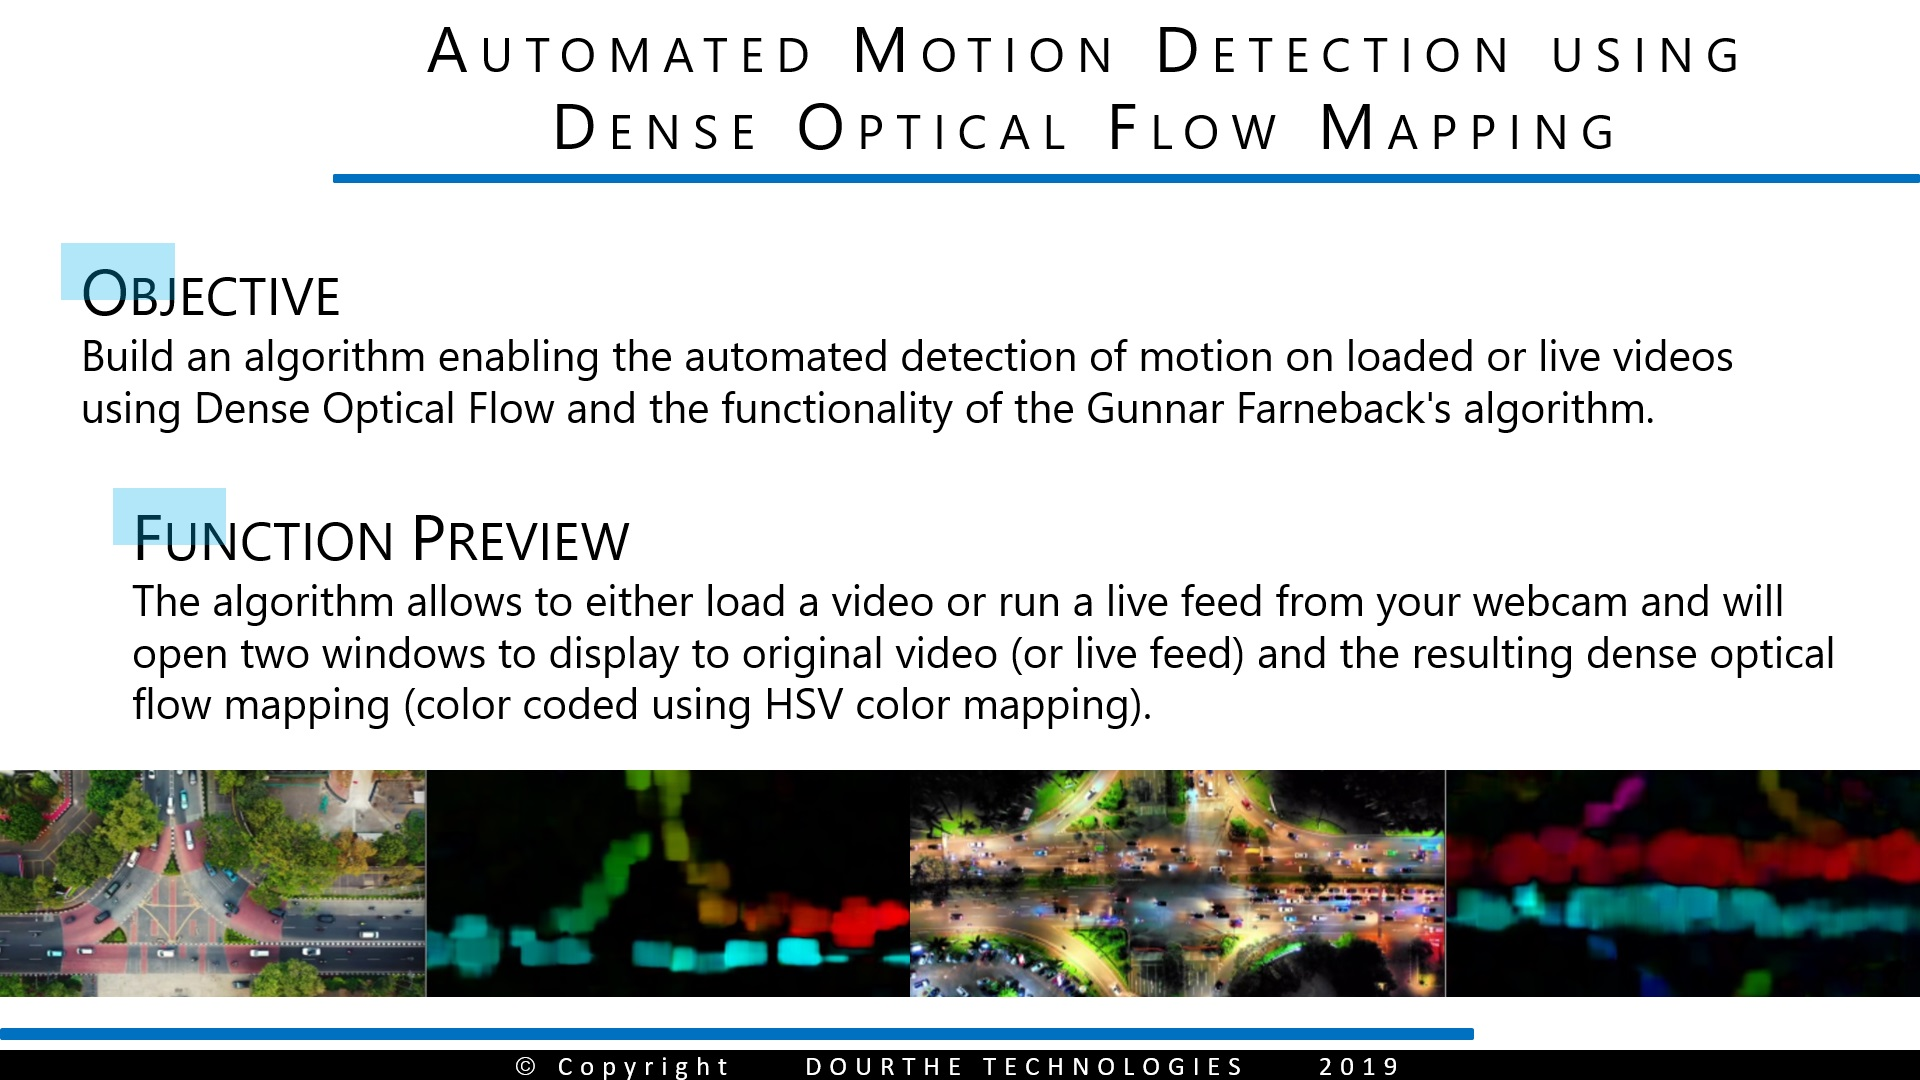
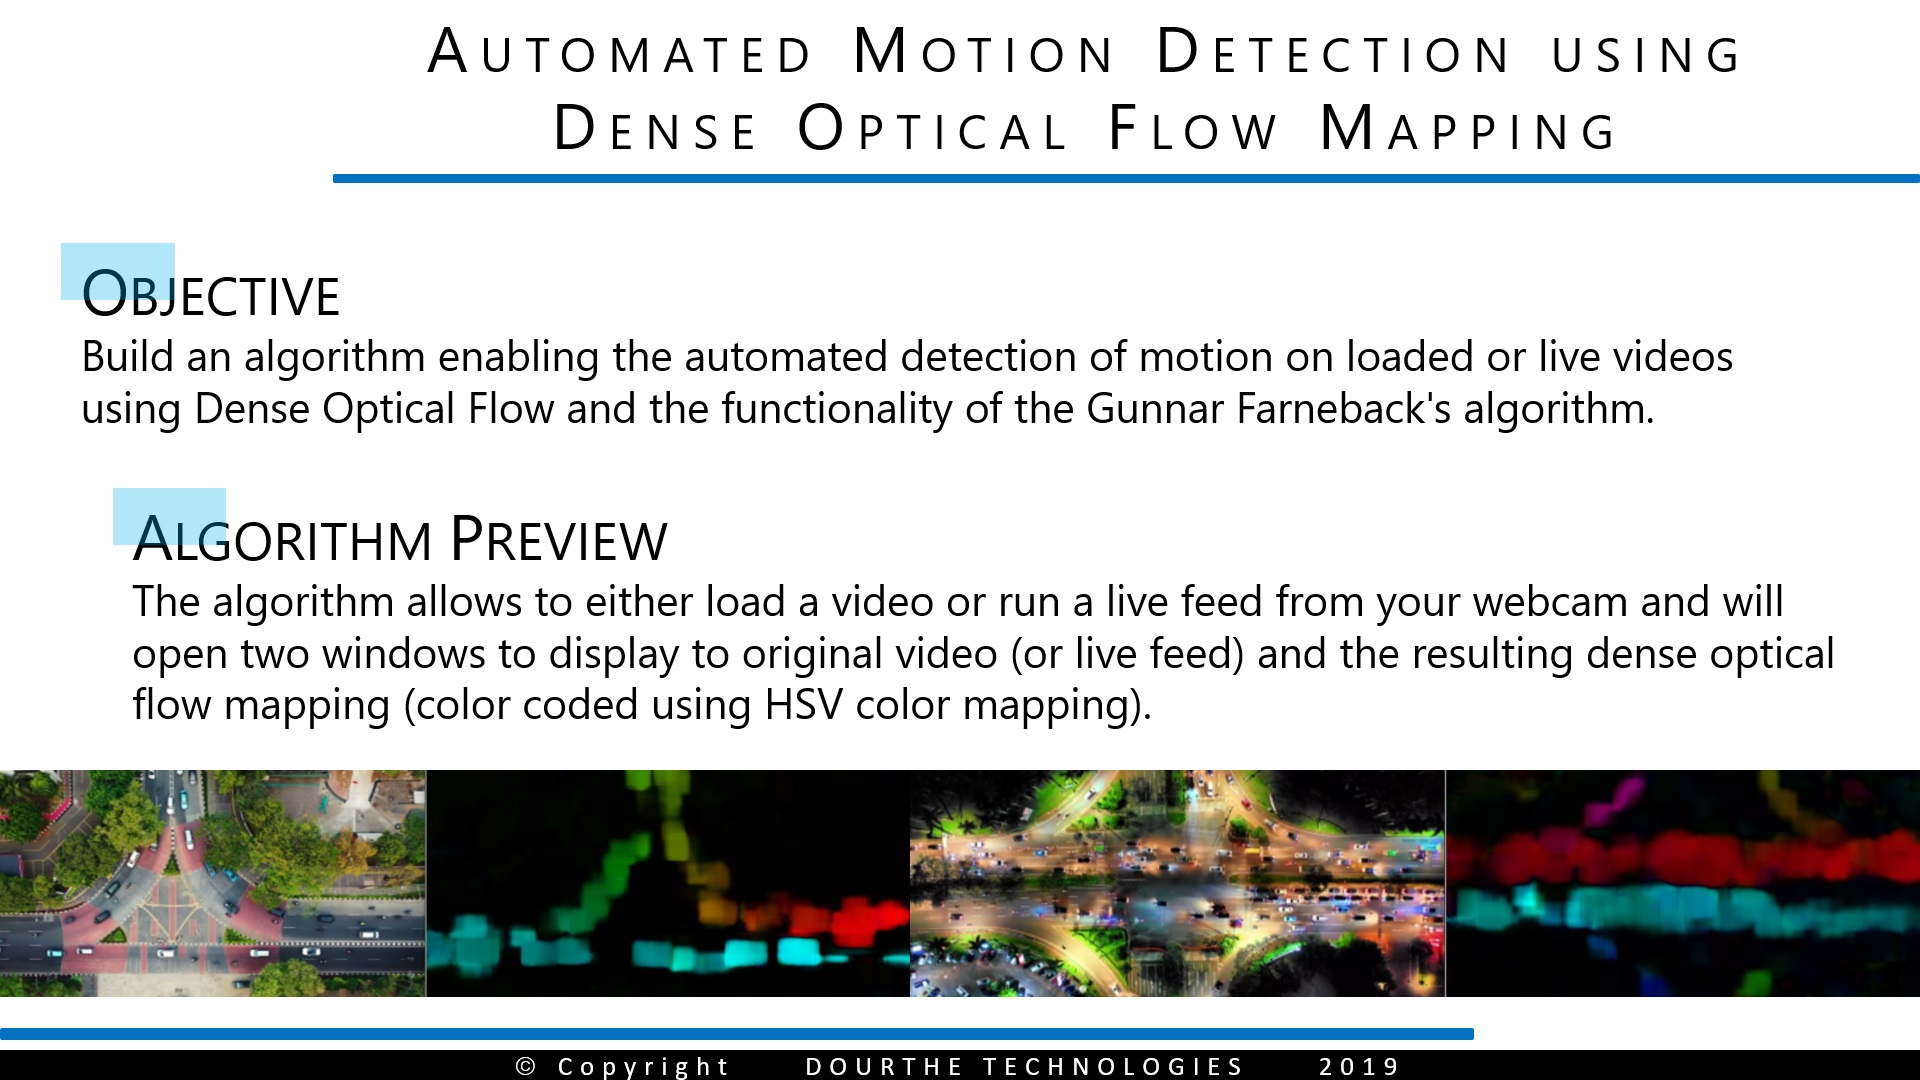
YOLO project added

Changed region(s): [[0.0625, 0.4583, 0.3438, 0.5194]]

diff --git a/index.html b/index.html
@@ -4,6 +4,14 @@
     <title>Dourthe Technologies</title>
 
     <meta name="viewport" content="width=device-width, initial-scale=1">
+    <meta name="description" content="Benjamin Dourthe online portfolio. Benjamin Dourthe is a Data Scientist and Biomedical Engineer. Benjamin Dourthe has experience in the following fields: Data Science, Biomedical Engineering, Artificial Intelligence, Machine Learning, Deep Learning, Computer Vision, Research, Medical Imaging, Sports and Orthopaedics Biomechanics" />
+    <meta name="robots" content="noodp" />
+    <meta name="keywords" content="benjamin, dourthe, benjamin dourthe, Benjamin Dourthe, ben, dourth, data, science, biomedical, engineering, artificial, intelligence, ai, machine, learning, deep, learning, computer, vision, research, medical, imaging, sports, orthopaedics, biomechanics" />
+    <meta property="og:image" content="Dourthe_Technologies_Headers.png" />
+    <meta property="og:type" content="website" />
+    <meta property="og:url" content="www.dourthe.tech" />
+    <meta property="og:title" content="Dourthe Technologies" />
+    <meta property="og:description" content="Personal Interactive Portfolio illustrating my work as a Researcher, Data Scientist and Engineering, and demonstrating my passion for Technology!" />
 
     <link rel="apple-touch-icon" sizes="180x180" href="/favicon/apple-touch-icon.png">
     <link rel="icon" type="image/png" sizes="32x32" href="/favicon/favicon-32x32.png">
@@ -691,6 +699,22 @@
                                         <i class="fas fa-search-plus"></i>
                                     </a>
                                     <a href="https://github.com/bendourthe/computer-vision/tree/master/Python/dense-optical-flow" title="Link to GitHub" target="_black" class="projectLink">
+                                        <i class="fas fa-link"></i>
+                                    </a>
+                                </div>
+                                <div class=imageOverlay>
+                                </div>
+                            </div>
+                        </li>
+
+                        <li onclick="" class="cv col-xs-6-col-sm-4 col-md-3 col-lg-4">
+                            <div class="item">
+                                <img src="portfolio/thumbnails/cv-4.jpg">
+                                <div class="icons">
+                                    <a href="portfolio/previews/cv-4.jpg" title="Preview" class="openButton" data-fancybox data-caption="Preview">
+                                        <i class="fas fa-search-plus"></i>
+                                    </a>
+                                    <a href="https://github.com/bendourthe/computer-vision/tree/master/Python/yolo-object-tracking" title="Link to GitHub" target="_black" class="projectLink">
                                         <i class="fas fa-link"></i>
                                     </a>
                                 </div>